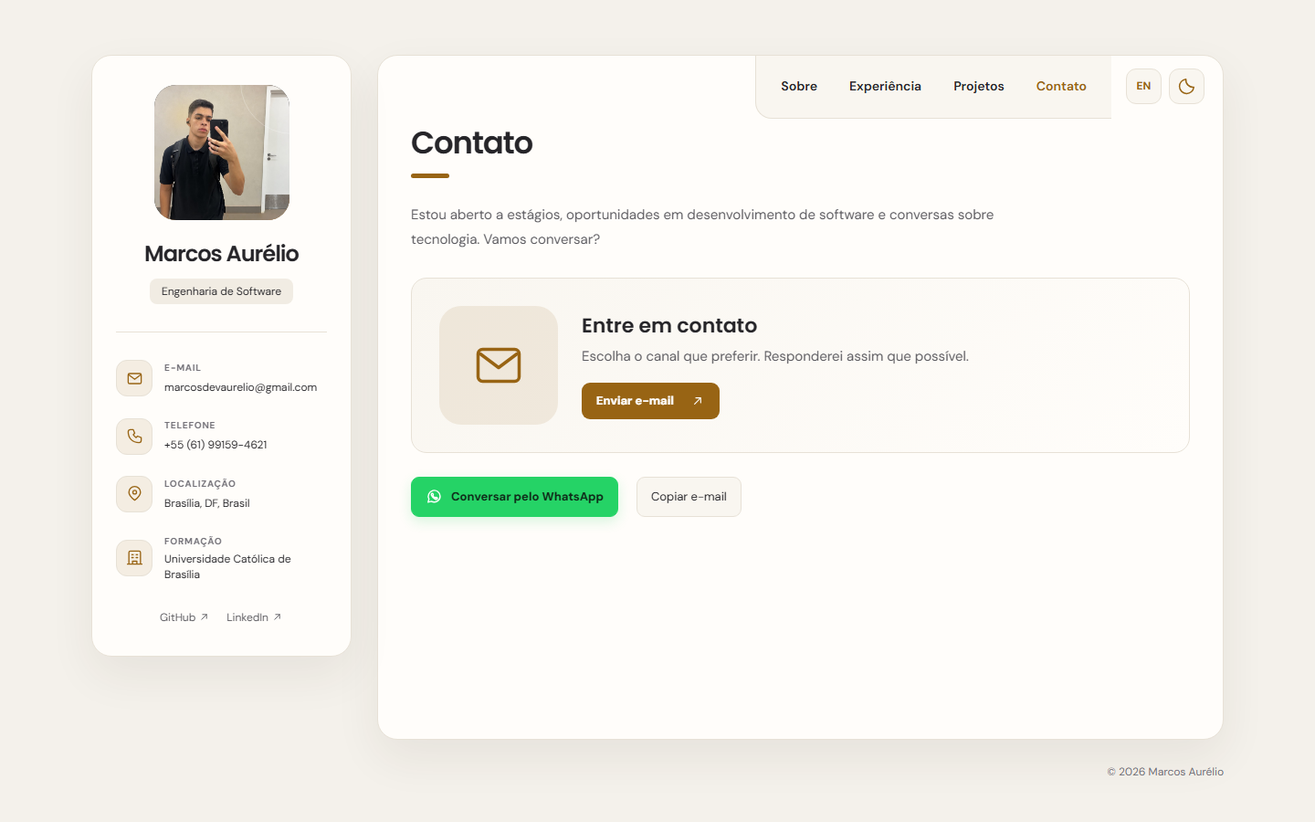
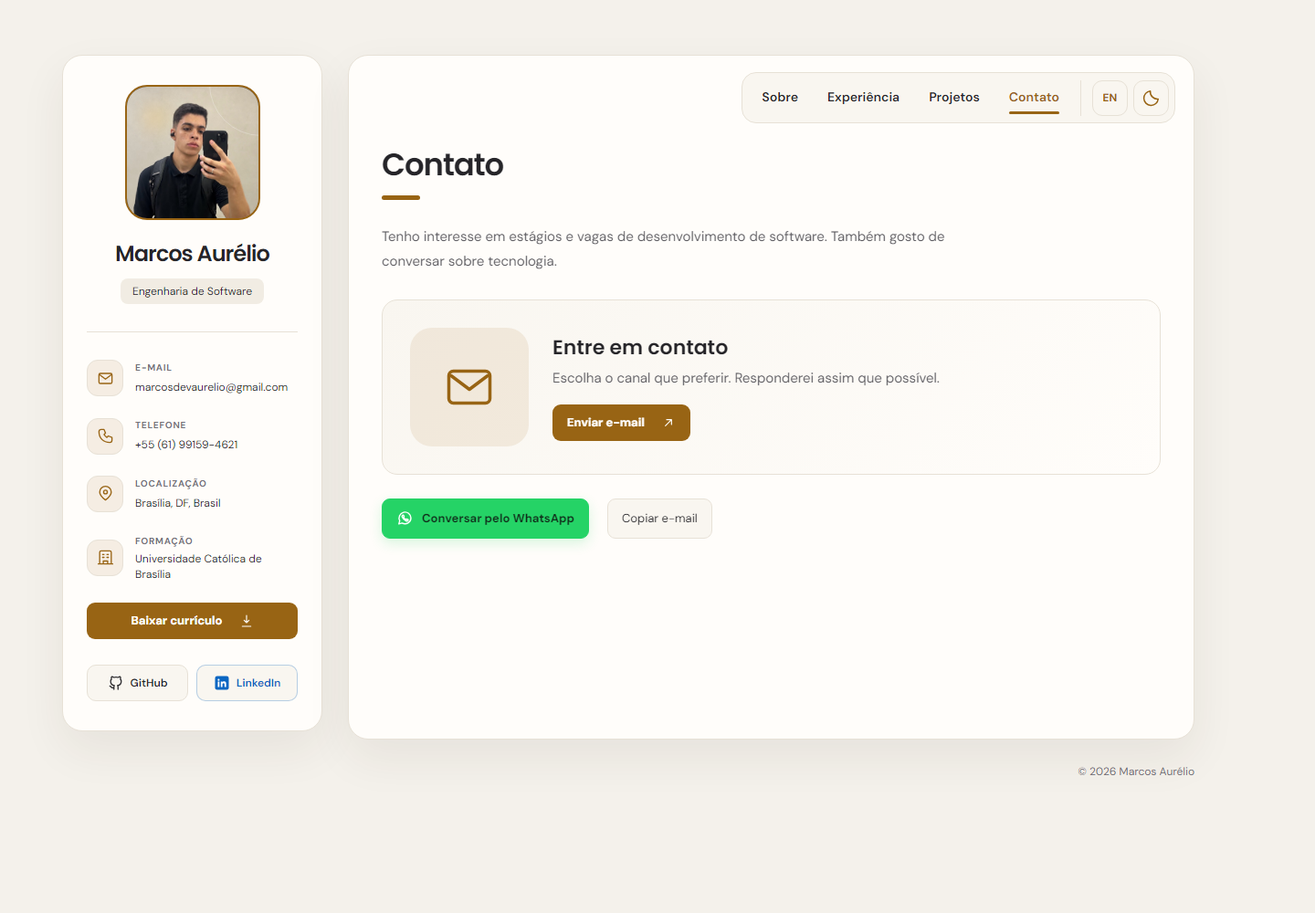
Atualiza portfolio, foto e capturas

diff --git a/script.js b/script.js
@@ -5,14 +5,16 @@ const translations = {
     location: "Brasília, DF, Brasil", university: "Universidade Católica de Brasília",
     navAbout: "Sobre", navExperience: "Experiência", navProjects: "Projetos", navContact: "Contato",
     aboutTitle: "Sobre mim",
-    aboutP1: "Olá! Meu nome é Marcos Aurélio, estudante de Engenharia de Software na Universidade Católica de Brasília. Gosto de transformar ideias em soluções úteis, com atenção à lógica, à experiência de uso e aos detalhes.",
-    aboutP2: "Minha experiência em suporte de TI na Viveo me aproximou dos desafios reais das pessoas. Hoje, sigo aprofundando meus conhecimentos em desenvolvimento de software, backend e segurança da informação.",
+    aboutP1: "Sou Marcos Aurélio e estudo Engenharia de Software na Universidade Católica de Brasília. Gosto de programar e de pensar em como as pessoas vão usar o que desenvolvo.",
+    aboutP2: "Trabalhei com suporte de TI na Viveo, atendendo usuários e acompanhando chamados. Também estudo desenvolvimento de software, backend e segurança da informação.",
     downloadResume: "Baixar currículo",
-    whatIDo: "O que eu faço", skillsTitle: "Tecnologias",
-    featureDevTitle: "Desenvolvimento de software", featureDevText: "Projetos em Java, C, C# e Python, com foco em soluções claras e funcionais.",
+    whatIDo: "O que eu faço", skillsTitle: "Tecnologias e ferramentas",
+    skillsLanguages: "Linguagens e web", skillsInterfaces: "Frameworks e interfaces",
+    skillsDataCloud: "Dados e nuvem", skillsTools: "Ferramentas",
+    featureDevTitle: "Desenvolvimento de software", featureDevText: "Projetos em Java, C, C# e Python.",
     featureSupportTitle: "Suporte de TI", featureSupportText: "Diagnóstico de incidentes, atendimento e acompanhamento de chamados.",
-    featureDataTitle: "Dados e lógica", featureDataText: "Manipulação de dados, SQL e algoritmos para resolver problemas de forma estruturada.",
-    featureLearnTitle: "Aprendizado contínuo", featureLearnText: "Estudo de backend, segurança da informação e boas práticas de engenharia.",
+    featureDataTitle: "Dados e lógica", featureDataText: "Uso SQL e algoritmos para organizar dados e resolver problemas.",
+    featureLearnTitle: "Aprendizado contínuo", featureLearnText: "Estudo backend, segurança da informação e práticas de engenharia de software.",
     experienceTitle: "Experiência", educationTitle: "Formação", degree: "Engenharia de Software",
     degreeDescription: "4º semestre da graduação, com estudos em programação, estruturas de dados e desenvolvimento de sistemas.",
     schoolTitle: "Ensino Fundamental e Médio",
@@ -22,9 +24,9 @@ const translations = {
     experienceDescription: "Atendimento presencial e remoto, triagem e acompanhamento de chamados, diagnóstico de incidentes e suporte à configuração de estações de trabalho, sistemas e periféricos.",
     focusTitle: "Áreas de interesse", security: "Segurança da informação", softwareDevelopment: "Desenvolvimento de software",
     languagesTitle: "Idiomas", englishLevel: "Inglês · B2",
-    projectsTitle: "Projetos", projectsLead: "Uma seleção de trabalhos acadêmicos que mostram meu aprendizado em programação e resolução de problemas.",
+    projectsTitle: "Projetos", projectsLead: "Projetos acadêmicos que desenvolvi em Java, JavaFX e C.",
     allGitHub: "Ver meu perfil no GitHub",
-    contactTitle: "Contato", contactLead: "Estou aberto a estágios, oportunidades em desenvolvimento de software e conversas sobre tecnologia. Vamos conversar?",
+    contactTitle: "Contato", contactLead: "Tenho interesse em estágios e vagas de desenvolvimento de software. Também gosto de conversar sobre tecnologia.",
     getInTouch: "Entre em contato", contactPrompt: "Escolha o canal que preferir. Responderei assim que possível.",
     sendEmail: "Enviar e-mail", whatsapp: "Conversar pelo WhatsApp", copyEmail: "Copiar e-mail", copiedEmail: "E-mail copiado!",
     copyFailed: "Não foi possível copiar", lightTheme: "Ativar tema claro", darkTheme: "Ativar tema escuro",
@@ -36,14 +38,16 @@ const translations = {
     location: "Brasília, DF, Brazil", university: "Catholic University of Brasília",
     navAbout: "About", navExperience: "Experience", navProjects: "Projects", navContact: "Contact",
     aboutTitle: "About me",
-    aboutP1: "Hi! My name is Marcos Aurélio, a Software Engineering student at the Catholic University of Brasília. I enjoy turning ideas into useful solutions, with attention to logic, user experience and detail.",
-    aboutP2: "My IT support experience at Viveo brought me closer to people's real challenges. I continue to deepen my knowledge of software development, backend and information security.",
+    aboutP1: "I'm Marcos Aurélio, a Software Engineering student at the Catholic University of Brasília. I enjoy programming and thinking about how people will use what I build.",
+    aboutP2: "I worked in IT support at Viveo, helping users and tracking support tickets. I also study software development, backend and information security.",
     downloadResume: "Download resume",
-    whatIDo: "What I do", skillsTitle: "Technologies",
-    featureDevTitle: "Software development", featureDevText: "Projects in Java, C, C# and Python, focused on clear, functional solutions.",
+    whatIDo: "What I do", skillsTitle: "Technologies and tools",
+    skillsLanguages: "Languages and web", skillsInterfaces: "Frameworks and interfaces",
+    skillsDataCloud: "Data and cloud", skillsTools: "Tools",
+    featureDevTitle: "Software development", featureDevText: "Projects in Java, C, C# and Python.",
     featureSupportTitle: "IT support", featureSupportText: "Incident diagnosis, user support and ticket follow-up.",
-    featureDataTitle: "Data and logic", featureDataText: "Data handling, SQL and algorithms to solve problems in a structured way.",
-    featureLearnTitle: "Continuous learning", featureLearnText: "Studying backend, information security and sound engineering practices.",
+    featureDataTitle: "Data and logic", featureDataText: "I use SQL and algorithms to organize data and solve problems.",
+    featureLearnTitle: "Continuous learning", featureLearnText: "I study backend, information security and software engineering practices.",
     experienceTitle: "Experience", educationTitle: "Education", degree: "Software Engineering",
     degreeDescription: "Fourth semester of the degree, studying programming, data structures and systems development.",
     schoolTitle: "Elementary and High School",
@@ -53,9 +57,9 @@ const translations = {
     experienceDescription: "On-site and remote support, ticket triage and follow-up, incident diagnosis, and help configuring workstations, systems and peripherals.",
     focusTitle: "Areas of interest", security: "Information security", softwareDevelopment: "Software development",
     languagesTitle: "Languages", englishLevel: "English · B2",
-    projectsTitle: "Projects", projectsLead: "A selection of academic work showing my progress in programming and problem solving.",
+    projectsTitle: "Projects", projectsLead: "Academic projects I've built in Java, JavaFX and C.",
     allGitHub: "Visit my GitHub profile",
-    contactTitle: "Contact", contactLead: "I'm open to internships, software development opportunities and conversations about technology. Let's talk.",
+    contactTitle: "Contact", contactLead: "I'm interested in internships and software development roles. I'm also happy to talk about technology.",
     getInTouch: "Get in touch", contactPrompt: "Choose your preferred channel. I'll respond as soon as I can.",
     sendEmail: "Send email", whatsapp: "Chat on WhatsApp", copyEmail: "Copy email", copiedEmail: "Email copied!",
     copyFailed: "Could not copy", lightTheme: "Switch to light theme", darkTheme: "Switch to dark theme",
@@ -70,7 +74,8 @@ const projects = [
       pt: "Aplicação Java para leitura de CSV, cálculo de pontuação, saldo de gols e estatísticas de desempenho.",
       en: "Java application for reading CSV files and calculating points, goal difference and performance statistics.",
     },
-    tags: "Java · CSV · Algoritmos", symbol: "BR", color: "linear-gradient(135deg, #235743, #0c2a24)",
+    tags: { pt: "Java · CSV · Algoritmos", en: "Java · CSV · Algorithms" },
+    symbol: "BR", color: "linear-gradient(135deg, #235743, #0c2a24)",
   },
   {
     title: { pt: "Aplicação Desktop", en: "Desktop Application" },
@@ -78,7 +83,8 @@ const projects = [
       pt: "Sistema desktop modular com interface JavaFX, padrão MVC e manipulação de eventos.",
       en: "Modular desktop application with a JavaFX interface, MVC pattern and event handling.",
     },
-    tags: "Java · JavaFX · MVC", symbol: "JFX", color: "linear-gradient(135deg, #51436f, #262139)",
+    tags: { pt: "Java · JavaFX · MVC", en: "Java · JavaFX · MVC" },
+    symbol: "JFX", color: "linear-gradient(135deg, #51436f, #262139)",
   },
   {
     title: { pt: "Conversor de Moedas", en: "Currency Converter" },
@@ -86,7 +92,8 @@ const projects = [
       pt: "Utilitário em C com estruturas de dados, alocação dinâmica, ponteiros e algoritmos.",
       en: "C utility using data structures, dynamic allocation, pointers and algorithms.",
     },
-    tags: "C · Estruturas de Dados", symbol: "C$", color: "linear-gradient(135deg, #814c47, #3a2427)",
+    tags: { pt: "C · Estruturas de Dados", en: "C · Data Structures" },
+    symbol: "C$", color: "linear-gradient(135deg, #814c47, #3a2427)",
   },
 ];
 
@@ -137,10 +144,23 @@ if (avatar && profilePhotoModal) {
   });
 }
 
-let language = previewOptions.get("lang") === "en" ? "en" : previewOptions.get("lang") === "pt"
-  ? "pt" : localStorage.getItem("portfolio-language") === "en" ? "en" : "pt";
-let theme = previewOptions.get("theme") === "light" ? "light" : previewOptions.get("theme") === "dark"
-  ? "dark" : localStorage.getItem("portfolio-theme") === "light" ? "light" : "dark";
+function getPreference(parameter, storageKey, allowedValues, fallback) {
+  const previewValue = previewOptions.get(parameter);
+  if (allowedValues.includes(previewValue)) return previewValue;
+
+  const savedValue = localStorage.getItem(storageKey);
+  return allowedValues.includes(savedValue) ? savedValue : fallback;
+}
+
+let language = getPreference("lang", "portfolio-language", ["pt", "en"], "pt");
+let theme = getPreference("theme", "portfolio-theme", ["dark", "light"], "dark");
+
+function updateContactsLabel() {
+  const key = expandButton.getAttribute("aria-expanded") === "true" ? "hideContacts" : "showContacts";
+  const label = translations[language][key];
+  expandButton.setAttribute("aria-label", label);
+  expandButton.querySelector("span").textContent = label;
+}
 
 function renderProjects() {
   const grid = document.querySelector("#project-grid");
@@ -159,7 +179,7 @@ function renderProjects() {
     description.textContent = project.description[language];
     const tags = document.createElement("div");
     tags.className = "project-tags";
-    tags.textContent = project.tags;
+    tags.textContent = project.tags[language];
     article.append(art, title, description, tags);
     return article;
   }));
@@ -181,9 +201,7 @@ function applyLanguage(next) {
   });
   languageButton.textContent = language === "pt" ? "EN" : "PT";
   languageButton.setAttribute("aria-label", language === "pt" ? "Switch to English" : "Mudar para português");
-  const contactsLabel = translations[language][expandButton.getAttribute("aria-expanded") === "true" ? "hideContacts" : "showContacts"];
-  expandButton.setAttribute("aria-label", contactsLabel);
-  expandButton.querySelector("span").textContent = contactsLabel;
+  updateContactsLabel();
   document.title = language === "pt" ? "Marcos Aurélio | Engenharia de Software" : "Marcos Aurélio | Software Engineering";
   document.querySelector('meta[name="description"]').content = language === "pt"
     ? "Portfólio de Marcos Aurélio, estudante de Engenharia de Software. Experiência, habilidades, projetos e contato."
@@ -268,8 +286,7 @@ themeButton.addEventListener("click", () => {
 expandButton.addEventListener("click", () => {
   const open = expandButton.getAttribute("aria-expanded") !== "true";
   expandButton.setAttribute("aria-expanded", String(open));
-  expandButton.setAttribute("aria-label", translations[language][open ? "hideContacts" : "showContacts"]);
-  expandButton.querySelector("span").textContent = translations[language][open ? "hideContacts" : "showContacts"];
+  updateContactsLabel();
   details.classList.toggle("open", open);
 });
 copyButton.addEventListener("click", async () => {
@@ -279,9 +296,12 @@ copyButton.addEventListener("click", async () => {
       const input = document.createElement("textarea");
       input.value = copyButton.dataset.email;
       document.body.append(input);
-      input.select();
-      if (!document.execCommand("copy")) throw new Error("Copy failed");
-      input.remove();
+      try {
+        input.select();
+        if (!document.execCommand("copy")) throw new Error("Copy failed");
+      } finally {
+        input.remove();
+      }
     }
     copyButton.textContent = translations[language].copiedEmail;
   } catch {

diff --git a/index.html b/index.html
@@ -38,7 +38,7 @@
     <aside class="profile-card" aria-label="Perfil de Marcos Aurélio">
       <div class="profile-top">
         <button class="avatar" type="button" aria-label="Ampliar foto de perfil">
-          <img class="avatar-photo" src="assets/private/foto-perfil.jpg" alt="Marcos Aurélio">
+          <img class="avatar-photo" src="assets/foto-perfil.jpeg" alt="Marcos Aurélio">
           <span class="avatar-label">MA</span>
           <i aria-hidden="true"></i>
         </button>
@@ -81,16 +81,21 @@
       </header>
       <section class="panel" id="sobre" aria-labelledby="about-title">
         <div class="section-title"><h2 id="about-title" data-i18n="aboutTitle">Sobre mim</h2><span></span></div>
-        <div class="intro"><p data-i18n="aboutP1">Olá! Sou Marcos Aurélio, estudante de Engenharia de Software na Universidade Católica de Brasília. Gosto de transformar ideias em soluções úteis, com atenção à lógica, à experiência de uso e aos detalhes.</p><p data-i18n="aboutP2">Minha experiência em suporte de TI na Viveo me aproximou dos desafios reais das pessoas. Hoje, sigo aprofundando meus conhecimentos em desenvolvimento de software, backend e segurança da informação.</p></div>
+        <div class="intro"><p data-i18n="aboutP1">Sou Marcos Aurélio e estudo Engenharia de Software na Universidade Católica de Brasília. Gosto de programar e de pensar em como as pessoas vão usar o que desenvolvo.</p><p data-i18n="aboutP2">Trabalhei com suporte de TI na Viveo, atendendo usuários e acompanhando chamados. Também estudo desenvolvimento de software, backend e segurança da informação.</p></div>
         <h3 class="subheading" data-i18n="whatIDo">O que eu faço</h3>
         <div class="feature-grid">
-          <article class="feature-card"><span class="feature-icon" aria-hidden="true"><svg><use href="#icon-code"/></svg></span><div><h4 data-i18n="featureDevTitle">Desenvolvimento de software</h4><p data-i18n="featureDevText">Projetos em Java, C, C# e Python, com foco em soluções claras e funcionais.</p></div></article>
+          <article class="feature-card"><span class="feature-icon" aria-hidden="true"><svg><use href="#icon-code"/></svg></span><div><h4 data-i18n="featureDevTitle">Desenvolvimento de software</h4><p data-i18n="featureDevText">Projetos em Java, C, C# e Python.</p></div></article>
           <article class="feature-card"><span class="feature-icon" aria-hidden="true"><svg><use href="#icon-headset"/></svg></span><div><h4 data-i18n="featureSupportTitle">Suporte de TI</h4><p data-i18n="featureSupportText">Diagnóstico de incidentes, atendimento e acompanhamento de chamados.</p></div></article>
-          <article class="feature-card"><span class="feature-icon" aria-hidden="true"><svg><use href="#icon-database"/></svg></span><div><h4 data-i18n="featureDataTitle">Dados e lógica</h4><p data-i18n="featureDataText">Manipulação de dados, SQL e algoritmos para resolver problemas de forma estruturada.</p></div></article>
-          <article class="feature-card"><span class="feature-icon" aria-hidden="true"><svg><use href="#icon-book"/></svg></span><div><h4 data-i18n="featureLearnTitle">Aprendizado contínuo</h4><p data-i18n="featureLearnText">Estudo de backend, segurança da informação e boas práticas de engenharia.</p></div></article>
+          <article class="feature-card"><span class="feature-icon" aria-hidden="true"><svg><use href="#icon-database"/></svg></span><div><h4 data-i18n="featureDataTitle">Dados e lógica</h4><p data-i18n="featureDataText">Uso SQL e algoritmos para organizar dados e resolver problemas.</p></div></article>
+          <article class="feature-card"><span class="feature-icon" aria-hidden="true"><svg><use href="#icon-book"/></svg></span><div><h4 data-i18n="featureLearnTitle">Aprendizado contínuo</h4><p data-i18n="featureLearnText">Estudo backend, segurança da informação e práticas de engenharia de software.</p></div></article>
         </div>
-        <h3 class="subheading" data-i18n="skillsTitle">Tecnologias</h3>
-        <div class="skill-list" aria-label="Tecnologias"><span>Java</span><span>C</span><span>C#</span><span>Python</span><span>SQL</span><span>JavaFX</span><span>Spring Boot</span><span>Git & GitHub</span></div>
+        <h3 class="subheading" data-i18n="skillsTitle">Tecnologias e ferramentas</h3>
+        <div class="technology-groups">
+          <div class="technology-group"><h4 data-i18n="skillsLanguages">Linguagens e web</h4><div class="skill-list"><span>Java</span><span>C</span><span>C#</span><span>Python</span><span>JavaScript</span><span>HTML5</span><span>CSS3</span><span>SQL</span></div></div>
+          <div class="technology-group"><h4 data-i18n="skillsInterfaces">Frameworks e interfaces</h4><div class="skill-list"><span>JavaFX</span><span>Java Swing</span><span>Spring Boot</span></div></div>
+          <div class="technology-group"><h4 data-i18n="skillsDataCloud">Dados e nuvem</h4><div class="skill-list"><span>MySQL</span><span>AWS</span></div></div>
+          <div class="technology-group"><h4 data-i18n="skillsTools">Ferramentas</h4><div class="skill-list"><span>Git</span><span>GitHub</span><span>VS Code</span><span>IntelliJ IDEA</span><span>NetBeans</span><span>Apache Ant</span><span>GCC</span></div></div>
+        </div>
       </section>
       <section class="panel" id="experiencia" aria-labelledby="experience-title" hidden>
         <div class="section-title"><h2 id="experience-title" data-i18n="experienceTitle">Experiência</h2><span></span></div>
@@ -116,13 +121,13 @@
       </section>
       <section class="panel" id="projetos" aria-labelledby="projects-title" hidden>
         <div class="section-title"><h2 id="projects-title" data-i18n="projectsTitle">Projetos</h2><span></span></div>
-        <p class="section-lead" data-i18n="projectsLead">Uma seleção de trabalhos acadêmicos que mostram meu aprendizado em programação e resolução de problemas.</p>
+        <p class="section-lead" data-i18n="projectsLead">Projetos acadêmicos que desenvolvi em Java, JavaFX e C.</p>
         <div class="project-grid" id="project-grid"></div>
         <a class="text-link" href="https://github.com/MarcosAAurelio" target="_blank" rel="noopener noreferrer"><span data-i18n="allGitHub">Ver meu perfil no GitHub</span><svg aria-hidden="true"><use href="#icon-external"/></svg></a>
       </section>
       <section class="panel" id="contato" aria-labelledby="contact-title" hidden>
         <div class="section-title"><h2 id="contact-title" data-i18n="contactTitle">Contato</h2><span></span></div>
-        <p class="section-lead" data-i18n="contactLead">Estou aberto a estágios, oportunidades em desenvolvimento de software e conversas sobre tecnologia. Vamos conversar?</p>
+        <p class="section-lead" data-i18n="contactLead">Tenho interesse em estágios e vagas de desenvolvimento de software. Também gosto de conversar sobre tecnologia.</p>
         <div class="contact-panel"><div class="contact-art" aria-hidden="true"><svg><use href="#icon-mail"/></svg></div><div><h3 data-i18n="getInTouch">Entre em contato</h3><p data-i18n="contactPrompt">Escolha o canal que preferir. Responderei assim que possível.</p><a class="primary-link" href="mailto:marcosdevaurelio@gmail.com"><span data-i18n="sendEmail">Enviar e-mail</span><svg aria-hidden="true"><use href="#icon-external"/></svg></a></div></div>
         <div class="contact-methods"><a href="https://wa.me/5561991594621" class="whatsapp-link" target="_blank" rel="noopener noreferrer"><svg aria-hidden="true"><use href="#icon-whatsapp"/></svg><span data-i18n="whatsapp">Conversar pelo WhatsApp</span></a><button class="copy-email" type="button" data-email="marcosdevaurelio@gmail.com" data-i18n="copyEmail">Copiar e-mail</button></div>
       </section>
@@ -130,7 +135,7 @@
   </div>
   <div class="photo-modal" id="profile-photo-modal" aria-hidden="true">
     <button class="photo-modal-close" type="button" aria-label="Fechar imagem ampliada">×</button>
-    <img src="assets/private/foto-perfil.jpg" alt="Marcos Aurélio em close-up" />
+    <img src="assets/foto-perfil.jpeg" alt="Foto de Marcos Aurélio ampliada" />
   </div>
   <footer>© <span id="year"></span> Marcos Aurélio</footer>
 </body>

diff --git a/styles.css b/styles.css
@@ -41,10 +41,10 @@ h1, h2, h3, h4, p { margin-top: 0; }
 .profile-card, .content-card { border: 1px solid var(--line); border-radius: 22px; background: var(--card); box-shadow: var(--shadow); }
 .profile-card { position: sticky; top: 28px; padding: 32px 26px; }
 .profile-top { display: flex; align-items: center; flex-direction: column; text-align: center; }
-.avatar { position: relative; display: grid; place-items: center; width: 148px; height: 148px; margin: 0 auto 22px; overflow: hidden; border: 0; border-radius: 24px; background: linear-gradient(145deg, #383735, #222324 70%); padding: 0; cursor: zoom-in; }
+.avatar { position: relative; display: grid; place-items: center; width: 148px; height: 148px; margin: 0 auto 22px; overflow: hidden; border: 2px solid var(--accent); border-radius: 24px; background: linear-gradient(145deg, #383735, #222324 70%); padding: 0; cursor: zoom-in; }
 .avatar::before { position: absolute; content: ""; width: 190px; height: 100px; left: -25px; bottom: -64px; border-radius: 50%; background: #e8aa62; transform: rotate(-18deg); opacity: .9; }
 .avatar::after { position: absolute; content: ""; width: 112px; height: 112px; right: -60px; top: -60px; border: 1px solid rgba(255,255,255,.25); border-radius: 50%; }
-.avatar-photo { position: absolute; inset: 0; width: 100%; height: 100%; object-fit: cover; display: block; opacity: 0; transition: opacity .2s ease; }
+.avatar-photo { position: absolute; inset: 0; width: 100%; height: 100%; object-fit: cover; object-position: center 28%; display: block; opacity: 0; transition: opacity .2s ease; }
 .avatar-label { position: relative; z-index: 1; color: #fff8e9; font: 600 48px "Poppins", sans-serif; letter-spacing: -.07em; }
 .avatar.has-photo .avatar-photo { opacity: 1; }
 .avatar.has-photo .avatar-label { opacity: 0; }
@@ -82,13 +82,14 @@ h1, h2, h3, h4, p { margin-top: 0; }
   75% { opacity: .9; transform: scaleX(1); }
   100% { opacity: 0; transform: scaleX(1); }
 }
-.content-header { display: flex; justify-content: flex-end; align-items: flex-start; gap: 16px; min-height: 72px; }
-.tabs { display: flex; align-items: center; flex-wrap: wrap; gap: 5px; padding: 0 12px; border-left: 1px solid var(--line); border-bottom: 1px solid var(--line); border-radius: 0 0 0 18px; background: var(--card-alt); }
-.tabs a { position: relative; display: grid; place-items: center; min-height: 68px; padding: 0 15px; color: var(--text); font-weight: 600; font-size: 14px; transition: color .25s; }
-.tabs a::after { position: absolute; right: 15px; bottom: 10px; left: 15px; height: 3px; border-radius: 3px; background: var(--accent); content: ""; transform: scaleX(0); transition: transform .3s cubic-bezier(.2, .8, .2, 1); }
+.content-header { display: flex; align-items: center; gap: 8px; width: max-content; max-width: calc(100% - 40px); margin: 18px 20px 22px auto; padding: 6px; border: 1px solid var(--line); border-radius: 16px; background: var(--card-alt); }
+.tabs { display: flex; align-items: center; gap: 2px; }
+.tabs a { position: relative; display: grid; place-items: center; min-height: 42px; padding: 0 15px; border-radius: 10px; color: var(--text); font-weight: 600; font-size: 14px; transition: color .25s, background .25s; }
+.tabs a::after { position: absolute; right: 15px; bottom: 3px; left: 15px; height: 3px; border-radius: 3px; background: var(--accent); content: ""; transform: scaleX(0); transition: transform .3s cubic-bezier(.2, .8, .2, 1); }
 .tabs a:hover::after, .tabs a.active::after { transform: scaleX(1); }
 .tabs a:hover, .tabs a.active { color: var(--accent); }
-.preferences { display: flex; gap: 8px; margin: 14px 20px 0 0; }
+.tabs a:hover { background: var(--raised); }
+.preferences { display: flex; gap: 6px; margin: 0; padding-left: 12px; border-left: 1px solid var(--line); }
 .control { display: grid; place-items: center; width: 39px; height: 39px; padding: 0; border: 1px solid var(--line); border-radius: 11px; background: var(--card-alt); color: var(--accent); font-weight: 700; font-size: 12px; }
 .control:hover { background: var(--raised); }
 .sun-icon { display: block; }
@@ -127,6 +128,8 @@ h1, h2, h3, h4, p { margin-top: 0; }
 .feature-card p { margin: 0; color: var(--muted); font-size: 13px; line-height: 1.6; }
 .skill-list { display: flex; flex-wrap: wrap; gap: 10px; }
 .skill-list span { padding: 6px 12px; border: 1px solid var(--line); border-radius: 8px; background: var(--card-alt); color: var(--muted); font-size: 12px; }
+.technology-groups { display: grid; grid-template-columns: repeat(2, minmax(0, 1fr)); gap: 22px 28px; }
+.technology-group h4 { margin: 0 0 10px; color: var(--faint); font-size: 11px; font-weight: 700; letter-spacing: .08em; text-transform: uppercase; }
 .with-icon { display: flex; align-items: center; gap: 12px; }
 .with-icon > span:first-child { display: grid; place-items: center; width: 42px; height: 42px; border: 1px solid var(--line); border-radius: 12px; color: var(--accent); background: var(--card-alt); font-size: 22px; }
 .with-icon svg { width: 21px; height: 21px; }
@@ -193,12 +196,14 @@ footer { width: min(1240px, calc(100% - 64px)); margin: 25px auto 50px; color: v
   .profile-expand { padding: 7px; }
   .contact-list { grid-template-columns: 1fr; gap: 16px; }
   .content-card { min-height: 650px; }
-  .content-header { flex-direction: column-reverse; align-items: stretch; gap: 8px; }
-  .preferences { align-self: flex-end; margin: 12px 16px 0; }
-  .tabs { justify-content: space-around; padding: 0 4px; border-left: 0; border-top: 1px solid var(--line); border-radius: 0; }
-  .tabs a { min-height: 49px; padding: 0 7px; font-size: 12px; }
+  .content-header { display: grid; grid-template-areas: "controls" "tabs"; gap: 6px; width: auto; max-width: none; margin: 12px 12px 0; }
+  .preferences { grid-area: controls; justify-self: end; padding: 0; border: 0; }
+  .tabs { grid-area: tabs; justify-content: space-between; gap: 0; padding-top: 6px; border-top: 1px solid var(--line); }
+  .tabs a { min-height: 44px; padding: 0 5px; font-size: clamp(11px, 3vw, 12px); }
+  .tabs a::after { right: 5px; left: 5px; }
   .panel { padding: 24px 20px 40px; }
   .feature-grid, .project-grid { grid-template-columns: 1fr; }
+  .technology-groups { grid-template-columns: 1fr; gap: 18px; }
   .feature-card { min-height: 0; }
   .project-art { height: 170px; }
   .contact-panel { flex-direction: column; align-items: flex-start; padding: 22px; }

diff --git a/README.md b/README.md
@@ -23,7 +23,7 @@
 
 ## Visão geral
 
-Este é o código do meu portfólio pessoal. O site apresenta minha experiência em suporte de TI, formação em Engenharia de Software e projetos acadêmicos. Foi feito com **HTML, CSS e JavaScript puro**, sem etapa de build.
+Este é meu portfólio pessoal. Reuni nele minha experiência em suporte de TI, minha formação em Engenharia de Software e alguns projetos acadêmicos. O site usa HTML, CSS e JavaScript, sem etapa de build.
 
 <div align="center">
   <img src="assets/screenshots/01-sobre-escuro.png" alt="Página Sobre do portfólio em português e tema escuro" width="900">
@@ -44,19 +44,15 @@ Este é o código do meu portfólio pessoal. O site apresenta minha experiência
   <img src="assets/screenshots/05-sobre-claro-mobile.png" alt="Página Sobre em tela de celular e tema claro" width="280">
 </div>
 
-> As capturas mostram a versão anterior dos atalhos sociais. Para ver os ícones do GitHub e LinkedIn e as transições atualizadas, abra o site localmente.
-
 ## Recursos
 
-- **Quatro seções:** Sobre, Experiência, Projetos e Contato, com transições suaves, indicador animado na navegação e acesso também por `#sobre`, `#experiencia`, `#projetos` e `#contato`.
-- **Português e inglês:** alternância de idioma para a interface, descrições dos projetos e mensagem do WhatsApp.
-- **Temas claro e escuro:** cores e controles adaptados ao tema escolhido.
-- **Ícones SVG:** conjunto visual próprio, integrado ao HTML e aos cartões de projetos, sem biblioteca externa.
-- **Preferências salvas:** idioma e tema persistem no `localStorage` do navegador.
-- **Layout responsivo:** cartões de projetos e recursos se reorganizam em telas menores; os contatos do perfil podem ser expandidos.
-- **Contato direto:** links para e-mail e WhatsApp, além de um botão para copiar o endereço de e-mail.
-- **Redes sociais:** atalhos para GitHub e LinkedIn com seus ícones e estilos próprios no cartão de perfil.
-- **Foto opcional:** se `assets/private/foto-perfil.jpg` existir localmente, ela aparece no perfil e pode ser ampliada; caso contrário, o avatar mostra “MA”.
+- As seções Sobre, Experiência, Projetos e Contato têm transições e podem ser abertas por `#sobre`, `#experiencia`, `#projetos` e `#contato`.
+- O botão de idioma traduz a interface, os projetos e a mensagem do WhatsApp.
+- Os controles de tema alternam entre claro e escuro. Idioma e tema ficam salvos no `localStorage`.
+- Os ícones SVG estão no HTML, sem biblioteca externa.
+- Em telas menores, os cartões se reorganizam e os contatos do perfil podem ser expandidos.
+- Há links para e-mail, WhatsApp, GitHub e LinkedIn, além de um botão para copiar o endereço de e-mail.
+- A foto `assets/foto-perfil.jpeg` aparece no perfil e pode ser ampliada.
 
 ## Projetos apresentados
 
@@ -87,7 +83,7 @@ Os parâmetros de URL facilitam conferir um idioma, tema ou seção, por exemplo
 index.html?theme=light&lang=en&tab=projetos
 ```
 
-Valores aceitos: `theme=dark|light`, `lang=pt|en` e `tab=sobre|experiencia|projetos|contato`. As capturas deste README mostram minha foto de perfil. O arquivo original permanece em `assets/private/`, pasta ignorada pelo Git; a foto aparece nas imagens versionadas em `assets/screenshots/`.
+Valores aceitos: `theme=dark|light`, `lang=pt|en` e `tab=sobre|experiencia|projetos|contato`. A foto de perfil está em `assets/foto-perfil.jpeg`.
 
 ## Estrutura
 
